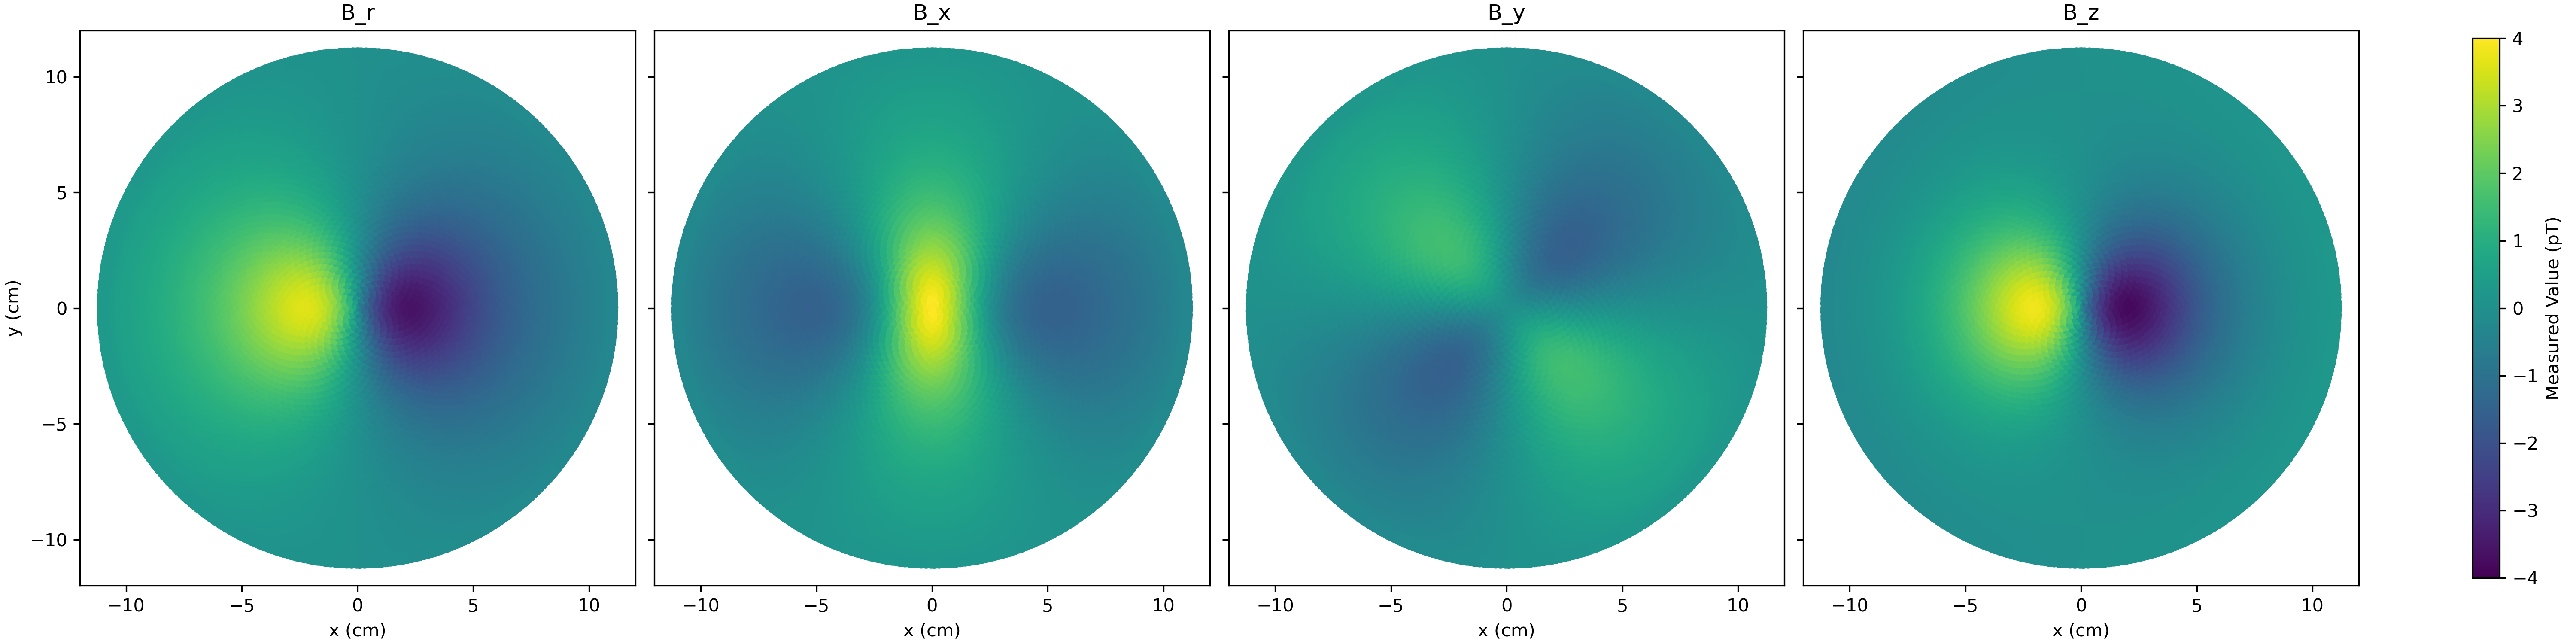
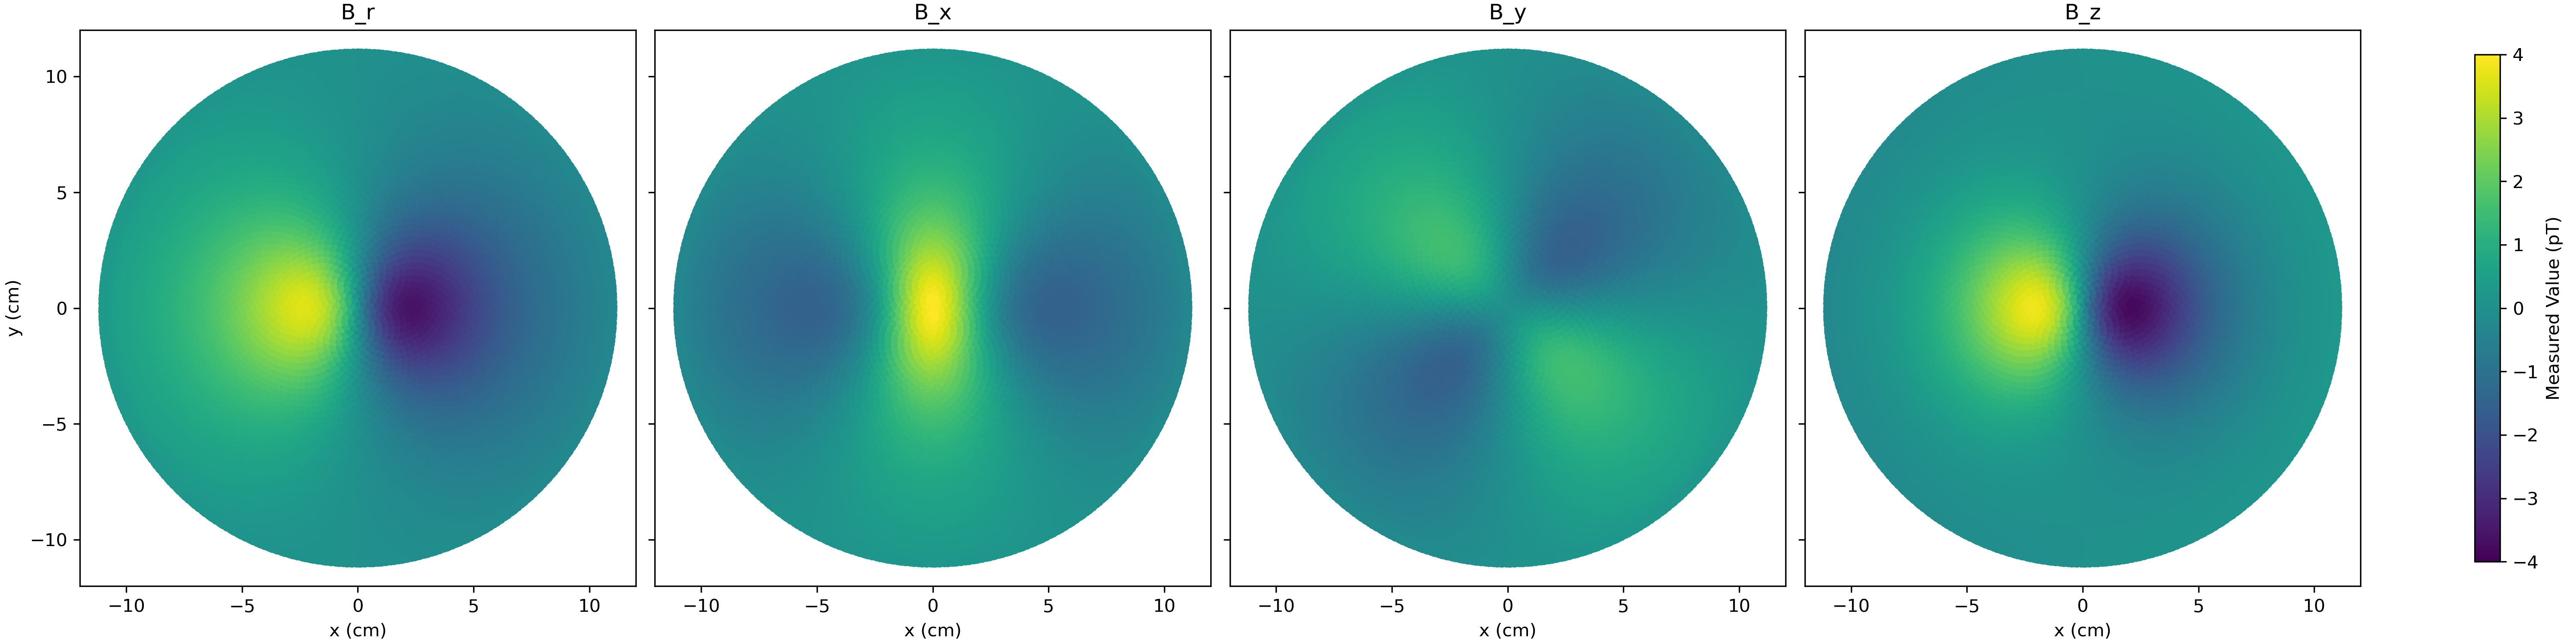
更改散点大小

diff --git a/examples/example_2.py b/examples/example_2.py
@@ -32,7 +32,7 @@ for i,unit in enumerate(["radial",unit_x,unit_y,unit_z]):
     print("Max B: {0:.3f}\t Min B: {1:.3f}".format(np.max(B)*1e12,np.min(B)*1e12))
 
     ax = axs[i]
-    sc = ax.scatter(rss[:,0]*1e2,rss[:,1]*1e2,c=B*1e12,cmap="viridis",vmin=vmin,vmax=vmax)
+    sc = ax.scatter(rss[:,0]*1e2,rss[:,1]*1e2,s=20,c=B*1e12,cmap="viridis",vmin=vmin,vmax=vmax)
     ax.set_xlabel("x (cm)")
     ax.set_xlim([-12,12])
     ax.set_ylim([-12,12])